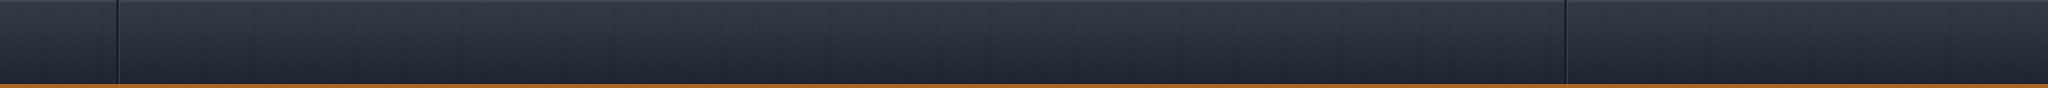
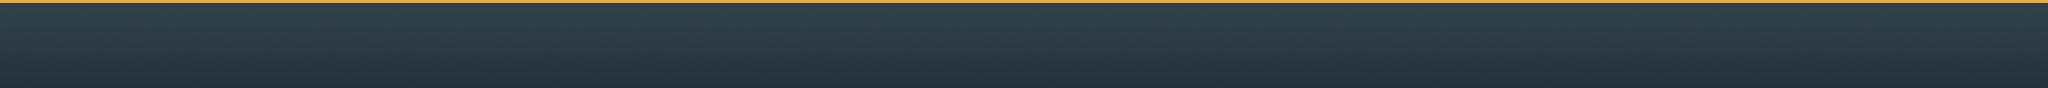
update company

Changed region(s): [[0.0, 0.9545, 1.0, 1.0], [0.0, 0.0, 1.0, 0.0455]]

diff --git a/POST/view/center/information/companies/companiesViewController.m b/POST/view/center/information/companies/companiesViewController.m
@@ -7,7 +7,7 @@
 //
 
 #import "companiesViewController.h"
-
+#import "comapanyCell.h"
 @interface companiesViewController ()
 
 @end
@@ -19,12 +19,61 @@
     self = [super initWithNibName:nibNameOrNil bundle:nibBundleOrNil];
     if (self) {
         // Custom initialization
-		self.view.backgroundColor = [UIColor colorWithRed:0.188 green:0.216 blue:0.255 alpha:1];
+		self.view.backgroundColor = [UIColor colorWithRed:0.204 green:0.247 blue:0.275 alpha:1];
 		
-		buffer =[[NSMutableArray alloc]init];
+		buffer = [[NSMutableArray alloc]init];
+		clean_data = [[NSMutableArray alloc]init];
+		table = [[UITableView alloc]init];
+		table.frame= CGRectMake(10, 10, 1004, 608);
+		table.delegate = self;
+		table.dataSource = self;
+		
+		table.separatorColor = [UIColor colorWithRed:0.161 green:0.18 blue:0.216 alpha:1];
+		//stockQ.userInteractionEnabled=false;
+		table.backgroundColor = [UIColor colorWithRed:0.059 green:0.071 blue:0.09 alpha:1];
+		
+		[self.view addSubview:table];
     }
     return self;
 }
+-(UIView *)tableView:(UITableView *)tableView viewForHeaderInSection:(NSInteger)section
+{
+	UIView *headerView = [[UIView alloc] initWithFrame:CGRectMake(0, 0, 1004, 25)];
+	UIImageView *imageView = [[UIImageView alloc] initWithFrame:CGRectMake(0, 0, 1004, 25)];
+	[imageView setImage:[UIImage imageNamed:@"cp_header"]];
+	[headerView addSubview:imageView];
+	
+	return headerView;
+	
+}
+-(CGFloat)tableView:(UITableView *)tableView heightForHeaderInSection:(NSInteger)section{
+	return 25;
+}
+- (NSInteger)numberOfSectionsInTableView:(UITableView *)tableView {
+    return 1;
+}
+- (NSInteger)tableView:(UITableView *)tableView numberOfRowsInSection:(NSInteger)section {
+	
+	return [clean_data count];
+}
+- (UITableViewCell *)tableView:(UITableView *)tableView cellForRowAtIndexPath:(NSIndexPath *)indexPath {
+	comapanyCell *cell = [[comapanyCell alloc]initWithStyle:UITableViewCellStyleDefault reuseIdentifier:@"cex"];
+	
+	if(cell == nil){
+		cell = [[comapanyCell alloc]initWithStyle:UITableViewCellStyleDefault reuseIdentifier:@"cex"];
+	}
+	
+	//cell.textLabel.textColor  = [UIColor whiteColor];
+	NSLog(@"---->%@",[clean_data objectAtIndex:1]);
+	cell.no.text = [NSString stringWithFormat:@"%d",indexPath.row];
+	cell.code.text = [NSString stringWithFormat:@"%@ - %@",[[clean_data objectAtIndex:indexPath.row]objectForKey:@"id[1]"],[[clean_data objectAtIndex:indexPath.row]objectForKey:@"id[2]"]];
+	cell.cp_name.text = [[clean_data objectAtIndex:indexPath.row]objectForKey:@"id[3]"];
+	cell.prev.text = [[clean_data objectAtIndex:indexPath.row]objectForKey:@"id[4]"];
+	cell.sb_sc.text = [[clean_data objectAtIndex:indexPath.row]objectForKey:@"id[6]"];
+	cell.mk_cp.text = [[clean_data objectAtIndex:indexPath.row]objectForKey:@"id[10]"];
+	return cell;
+}
+
 
 - (void)viewDidLoad
 {
@@ -64,7 +113,30 @@
 		NSArray *testArray = [buffers componentsSeparatedByString:@"]}"];
 		//NSArray *testArrays = [testArray componentsSeparatedByString:@"]}"];
 		buffer = [NSMutableArray arrayWithArray:testArray];
-		[self digg];
+		NSMutableArray *stringArray =[[NSMutableArray alloc]init];
+		for (int i=0; i<buffer.count; i++) {
+			NSString *first=[[buffer objectAtIndex:i] stringByReplacingOccurrencesOfString:@"{" withString:@""];
+			NSString *second = [first stringByReplacingOccurrencesOfString:@"\"" withString:@""];
+			NSString *third = [second stringByReplacingOccurrencesOfString:@"data:[" withString:@""];
+			NSString *fourth = [third stringByReplacingOccurrencesOfString:@"id:" withString:@""];
+			
+			NSArray *separate =[fourth componentsSeparatedByString:@","];
+			NSMutableDictionary *dic = [[NSMutableDictionary alloc] init];
+			for (int i = 0; i<[separate count]; i++) {
+				[dic setValue:[separate objectAtIndex:i] forKey:[NSString stringWithFormat:@"id[%d]", i]];
+				[stringArray addObject:dic];
+				
+			}
+			if (![clean_data containsObject:dic]) {
+                [clean_data addObject:dic];
+				
+				
+            }
+
+			[table reloadData];
+						
+		}
+		
 	} failure:^(AFHTTPRequestOperation *operation, NSError *error) {
 		NSLog(@"Error: %@", error);
 	}];
@@ -73,16 +145,4 @@
 	
 }
 
--(void)digg{
-	for (int i=0; i<buffer.count; i++) {
-		NSString *first=[[buffer objectAtIndex:i] stringByReplacingOccurrencesOfString:@"{" withString:@""];
-		NSString *second = [first stringByReplacingOccurrencesOfString:@"\"" withString:@""];
-		NSString *third = [second stringByReplacingOccurrencesOfString:@"data:[" withString:@""];
-		NSString *fourth = [third stringByReplacingOccurrencesOfString:@"id:" withString:@""];
-		
-		NSLog(@"sekarang %d---->%@",i,fourth);
-	}
-	
-	
-	}
 @end

diff --git a/POST/view/center/information/companies/comapanyCell.m b/POST/view/center/information/companies/comapanyCell.m
@@ -1,0 +1,80 @@
+//
+//  comapanyCell.m
+//  POST
+//
+//  Created by Arie on 9/19/13.
+//  Copyright (c) 2013 netra. All rights reserved.
+//
+
+#import "comapanyCell.h"
+
+@implementation comapanyCell
+@synthesize no;
+@synthesize code;
+@synthesize cp_name;
+@synthesize prev;
+@synthesize sb_sc;
+@synthesize mk_cp;
+- (id)initWithStyle:(UITableViewCellStyle)style reuseIdentifier:(NSString *)reuseIdentifier
+{
+    self = [super initWithStyle:style reuseIdentifier:reuseIdentifier];
+    if (self) {
+        // Initialization code
+		no = [[UILabel alloc] initWithFrame:CGRectMake(5, 2, 30, 25)];
+		no.backgroundColor = [UIColor clearColor];
+		no.textAlignment =  NSTextAlignmentCenter;
+		no.font =  [UIFont fontWithName:@"HelveticaNeue" size:10];
+		no.textColor = [UIColor whiteColor];
+		
+		code = [[UILabel alloc] initWithFrame:CGRectMake(70, 2, 100, 25)];
+		code.backgroundColor = [UIColor clearColor];
+		code.textAlignment =  NSTextAlignmentCenter;
+		code.font =  [UIFont fontWithName:@"HelveticaNeue" size:10];
+		code.textColor = [UIColor whiteColor];
+		//code.text = @"AAPL";
+		
+		cp_name = [[UILabel alloc] initWithFrame:CGRectMake(190, 2, 200, 25)];
+		cp_name.backgroundColor = [UIColor clearColor];
+		cp_name.textAlignment =  NSTextAlignmentCenter;
+		cp_name.font =  [UIFont fontWithName:@"HelveticaNeue" size:10];
+		cp_name.textColor = [UIColor whiteColor];
+		//cp_name.text = @"AAPL";
+		
+		prev = [[UILabel alloc] initWithFrame:CGRectMake(450, 2, 100, 25)];
+		prev.backgroundColor = [UIColor clearColor];
+		prev.textAlignment =  NSTextAlignmentCenter;
+		prev.font =  [UIFont fontWithName:@"HelveticaNeue" size:10];
+		prev.textColor = [UIColor whiteColor];
+		
+		sb_sc = [[UILabel alloc] initWithFrame:CGRectMake(620, 2, 160, 25)];
+		sb_sc.backgroundColor = [UIColor clearColor];
+		sb_sc.textAlignment =  NSTextAlignmentCenter;
+		sb_sc.font =  [UIFont fontWithName:@"HelveticaNeue" size:10];
+		sb_sc.textColor = [UIColor whiteColor];
+		
+		mk_cp = [[UILabel alloc] initWithFrame:CGRectMake(820, 2, 120, 25)];
+		mk_cp.backgroundColor = [UIColor clearColor];
+		mk_cp.textAlignment =  NSTextAlignmentCenter;
+		mk_cp.font =  [UIFont fontWithName:@"HelveticaNeue" size:10];
+		mk_cp.textColor = [UIColor whiteColor];
+		
+		
+		[self.contentView addSubview:no];
+		[self.contentView addSubview:code];
+		[self.contentView addSubview:cp_name];
+		[self.contentView addSubview:prev];
+		[self.contentView addSubview:sb_sc];
+		[self.contentView addSubview:mk_cp];
+		
+    }
+    return self;
+}
+
+- (void)setSelected:(BOOL)selected animated:(BOOL)animated
+{
+    [super setSelected:selected animated:animated];
+
+    // Configure the view for the selected state
+}
+
+@end

diff --git a/POST/POST_AppDelegate.m b/POST/POST_AppDelegate.m
@@ -32,7 +32,7 @@
 	[[UINavigationBar appearance]setShadowImage:[[UIImage alloc] init]];
 	_drawerController = [[MMDrawerController alloc] init];
 	[self setCenter:@"" name:@"Live Trade"];
-	[_drawerController setLeftDrawerViewController:_left];
+
     [_drawerController setRestorationIdentifier:@"netra"];
     [_drawerController setMaximumRightDrawerWidth:200.0];
     [_drawerController setOpenDrawerGestureModeMask:MMOpenDrawerGestureModeAll];
@@ -48,7 +48,8 @@
 	
 }
 -(void)setCenter:(NSString *)center name:(NSString*)name{
-	navLabel = [[UILabel alloc] initWithFrame:CGRectMake(0, 10, 300, 22)];
+	NSLog(@"center-->%@",center);
+	navLabel = [[UILabel alloc] initWithFrame:CGRectMake(0, 15, 300, 22)];
 	navLabel.backgroundColor = [UIColor clearColor];
 	navLabel.textColor = [UIColor whiteColor];
 	navLabel.font = [UIFont fontWithName:@"HelveticaNeue-Bold" size:14];
@@ -56,18 +57,28 @@
 
 	
 	if ([center isEqualToString:@""]) {
+			[_drawerController setLeftDrawerViewController:_left];
 		_nav=[[UINavigationController alloc]initWithRootViewController:_liveTradeViewController];
 		[self.drawerController setCenterViewController:_nav withCloseAnimation:YES completion:nil];
 		self.lastController = @"liveTradeViewController";
 	}
 	else if([center isEqualToString:self.lastController]){
 		
-		[self.drawerController closeDrawerAnimated:YES completion:nil];
+		[_drawerController closeDrawerAnimated:YES completion:nil];
+			[_drawerController setLeftDrawerViewController:_left];
 	}
 	else{
 		_nav=[[UINavigationController alloc]initWithRootViewController:[[NSClassFromString(center) alloc]init]];
-		[self.drawerController setCenterViewController:_nav withCloseAnimation:YES completion:nil];
-		self.lastController = center;
+		if( [center isEqualToString:@"LoginViewController"]){
+			[_drawerController setCenterViewController:_nav withCloseAnimation:YES completion:nil];
+			[_drawerController setLeftDrawerViewController:nil];
+		}
+		else{
+			[_drawerController setCenterViewController:_nav withCloseAnimation:YES completion:nil];
+			self.lastController = center;
+				[_drawerController setLeftDrawerViewController:_left];
+		}
+		
 	}
 
 		
@@ -149,6 +160,7 @@
 
 - (void)applicationDidBecomeActive:(UIApplication *)application
 {
+	
 	// Restart any tasks that were paused (or not yet started) while the application was inactive. If the application was previously in the background, optionally refresh the user interface.
 }
 

diff --git a/POST/view/center/tradingCentral/stockQuote/st_quoteViewController.m b/POST/view/center/tradingCentral/stockQuote/st_quoteViewController.m
@@ -20,19 +20,27 @@
     if (self) {
         // Custom initialization
 		
-		stock_accronim =[[UILabel alloc]initWithFrame:CGRectMake(0, 40, 400, 50)];
+		stock_accronim =[[UILabel alloc]initWithFrame:CGRectMake(0, 50, 307, 50)];
 		stock_accronim.text =@"AAPL";
 		stock_accronim.textColor = [UIColor colorWithRed:0.243 green:0.278 blue:0.384 alpha:1];
-		stock_accronim.font = [UIFont fontWithName:@"HelveticaNeue-Bold" size:45];
+		stock_accronim.font = [UIFont fontWithName:@"HelveticaNeue-Bold" size:44];
 		stock_accronim.textAlignment = NSTextAlignmentCenter;
 		stock_accronim.backgroundColor = [UIColor clearColor];
 		
-		popupView =[[UIView alloc]initWithFrame:CGRectMake(0, 0, 400, 400)];
+		stock_volume =[[UILabel alloc]initWithFrame:CGRectMake(0, 80, 307, 50)];
+		stock_volume.text =@"(+ 200000)";
+		stock_volume.textColor = [UIColor colorWithRed:0.243 green:0.278 blue:0.384 alpha:1];
+		stock_volume.font = [UIFont fontWithName:@"HelveticaNeue-Bold" size:20];
+		stock_volume.textAlignment = NSTextAlignmentCenter;
+		stock_volume.backgroundColor = [UIColor clearColor];
+		
+		popupView =[[UIView alloc]initWithFrame:CGRectMake(0, 0, 307, 297)];
 		popupView.backgroundColor = [UIColor colorWithPatternImage:[UIImage imageNamed:@"details"]];
 		popupView.layer.cornerRadius = 5;
 		popupView.layer.masksToBounds = YES;
 		
 		[popupView addSubview:stock_accronim];
+		[popupView addSubview:stock_volume];
 		top_border = [[UIView alloc]initWithFrame:CGRectMake(0, 0, popupView.frame.size.width, 5)];
 		top_border.backgroundColor = [UIColor colorWithRed:1 green:0.4 blue:0 alpha:1];
 		

diff --git a/POST/view/left/post_leftViewController.m b/POST/view/left/post_leftViewController.m
@@ -32,8 +32,8 @@
 		information_c = [NSArray arrayWithObjects: @"contactViewController",@"researchViewController",@"Logout",Nil];
 		self.view.backgroundColor=[UIColor blackColor];
 		menu=[[UITableView alloc]initWithFrame:CGRectMake(0, 0, self.view.frame.size.width, 750)];
-		menu.backgroundColor = [UIColor colorWithRed:0.067 green:0.086 blue:0.122 alpha:1];
-		menu.separatorColor  = [UIColor colorWithRed:0.149 green:0.165 blue:0.208 alpha:1];
+		menu.backgroundColor = [UIColor colorWithRed:0.075 green:0.149 blue:0.192 alpha:1];
+		menu.separatorColor  = [UIColor colorWithRed:0.012 green:0.09 blue:0.137 alpha:1];
 		menu.dataSource = self;
 		menu.delegate = self;
 		[self.view addSubview:menu];

diff --git a/POST/view/center/login/LoginViewController.m b/POST/view/center/login/LoginViewController.m
@@ -19,11 +19,15 @@
     self = [super initWithNibName:nibNameOrNil bundle:nibBundleOrNil];
     if (self) {
         // Custom initialization
+		//self.view.backgroundColor = [UIColor colorWithRed:0.141 green:0.196 blue:0.231 alpha:1];
 		self.view.backgroundColor = [UIColor whiteColor];
     }
     return self;
 }
-
+- (void)viewWillAppear:(BOOL)animated{
+	[super viewWillAppear:animated];
+	[self.navigationController setNavigationBarHidden:YES];
+}
 - (void)viewDidLoad
 {
     [super viewDidLoad];

diff --git a/POST/view/center/information/companies/comapanyCell.h b/POST/view/center/information/companies/comapanyCell.h
@@ -1,0 +1,18 @@
+//
+//  comapanyCell.h
+//  POST
+//
+//  Created by Arie on 9/19/13.
+//  Copyright (c) 2013 netra. All rights reserved.
+//
+
+#import <UIKit/UIKit.h>
+
+@interface comapanyCell : UITableViewCell
+@property (nonatomic, strong) UILabel *no;
+@property (nonatomic, strong) UILabel *code;
+@property (nonatomic, strong) UILabel *cp_name;
+@property (nonatomic, strong) UILabel *prev;
+@property (nonatomic, strong) UILabel *sb_sc;
+@property (nonatomic, strong) UILabel *mk_cp;
+@end

diff --git a/POST/view/center/tradingCentral/livetrade/liveTradeViewController.m b/POST/view/center/tradingCentral/livetrade/liveTradeViewController.m
@@ -24,7 +24,7 @@
 		popupView.backgroundColor=[UIColor whiteColor];
 
         // Custom initialization
-		self.view.backgroundColor = [UIColor colorWithRed:0.188 green:0.216 blue:0.255 alpha:1];
+		self.view.backgroundColor = [UIColor colorWithRed:0.204 green:0.247 blue:0.275 alpha:1];
 		//self.view.backgroundColor = [UIColor colorWithPatternImage:[UIImage imageNamed:@"main_bg"]];
 		/* running thread 1 */
 		liveTrade = [[UITableView alloc]initWithFrame:CGRectMake(10, 10, 490, 595)];

diff --git a/POST/view/center/tradingCentral/BrokerRank/brokerRankViewController.m b/POST/view/center/tradingCentral/BrokerRank/brokerRankViewController.m
@@ -18,7 +18,7 @@
     self = [super initWithNibName:nibNameOrNil bundle:nibBundleOrNil];
     if (self) {
         // Custom initialization
-		self.view.backgroundColor = [UIColor colorWithRed:0.188 green:0.216 blue:0.255 alpha:1];
+		self.view.backgroundColor = [UIColor colorWithRed:0.204 green:0.247 blue:0.275 alpha:1];
 		
 		brQ = [[UITableView alloc]init];
 		brQ.frame= CGRectMake(10, 10, 1004, 608);

diff --git a/POST/view/center/myaccount/account_setting/accountSettingViewController.m b/POST/view/center/myaccount/account_setting/accountSettingViewController.m
@@ -18,7 +18,7 @@
 {
     self = [super initWithNibName:nibNameOrNil bundle:nibBundleOrNil];
     if (self) {
-		self.view.backgroundColor = [UIColor colorWithRed:0.188 green:0.216 blue:0.255 alpha:1];
+		self.view.backgroundColor = [UIColor colorWithRed:0.204 green:0.247 blue:0.275 alpha:1];
         // Custom initialization
     }
     return self;

diff --git a/POST/view/center/trade/my OrderList/orderListViewController.m b/POST/view/center/trade/my OrderList/orderListViewController.m
@@ -19,7 +19,7 @@
     self = [super initWithNibName:nibNameOrNil bundle:nibBundleOrNil];
     if (self) {
         // Custom initialization
-		self.view.backgroundColor = [UIColor colorWithRed:0.188 green:0.216 blue:0.255 alpha:1];
+		self.view.backgroundColor = [UIColor colorWithRed:0.204 green:0.247 blue:0.275 alpha:1];
     }
     return self;
 }

diff --git a/POST/view/center/trade/portfolio/portfolioViewController.m b/POST/view/center/trade/portfolio/portfolioViewController.m
@@ -19,7 +19,7 @@
     self = [super initWithNibName:nibNameOrNil bundle:nibBundleOrNil];
     if (self) {
         // Custom initialization
-		self.view.backgroundColor = [UIColor colorWithRed:0.188 green:0.216 blue:0.255 alpha:1];
+		self.view.backgroundColor = [UIColor colorWithRed:0.204 green:0.247 blue:0.275 alpha:1];
     }
     return self;
 }
